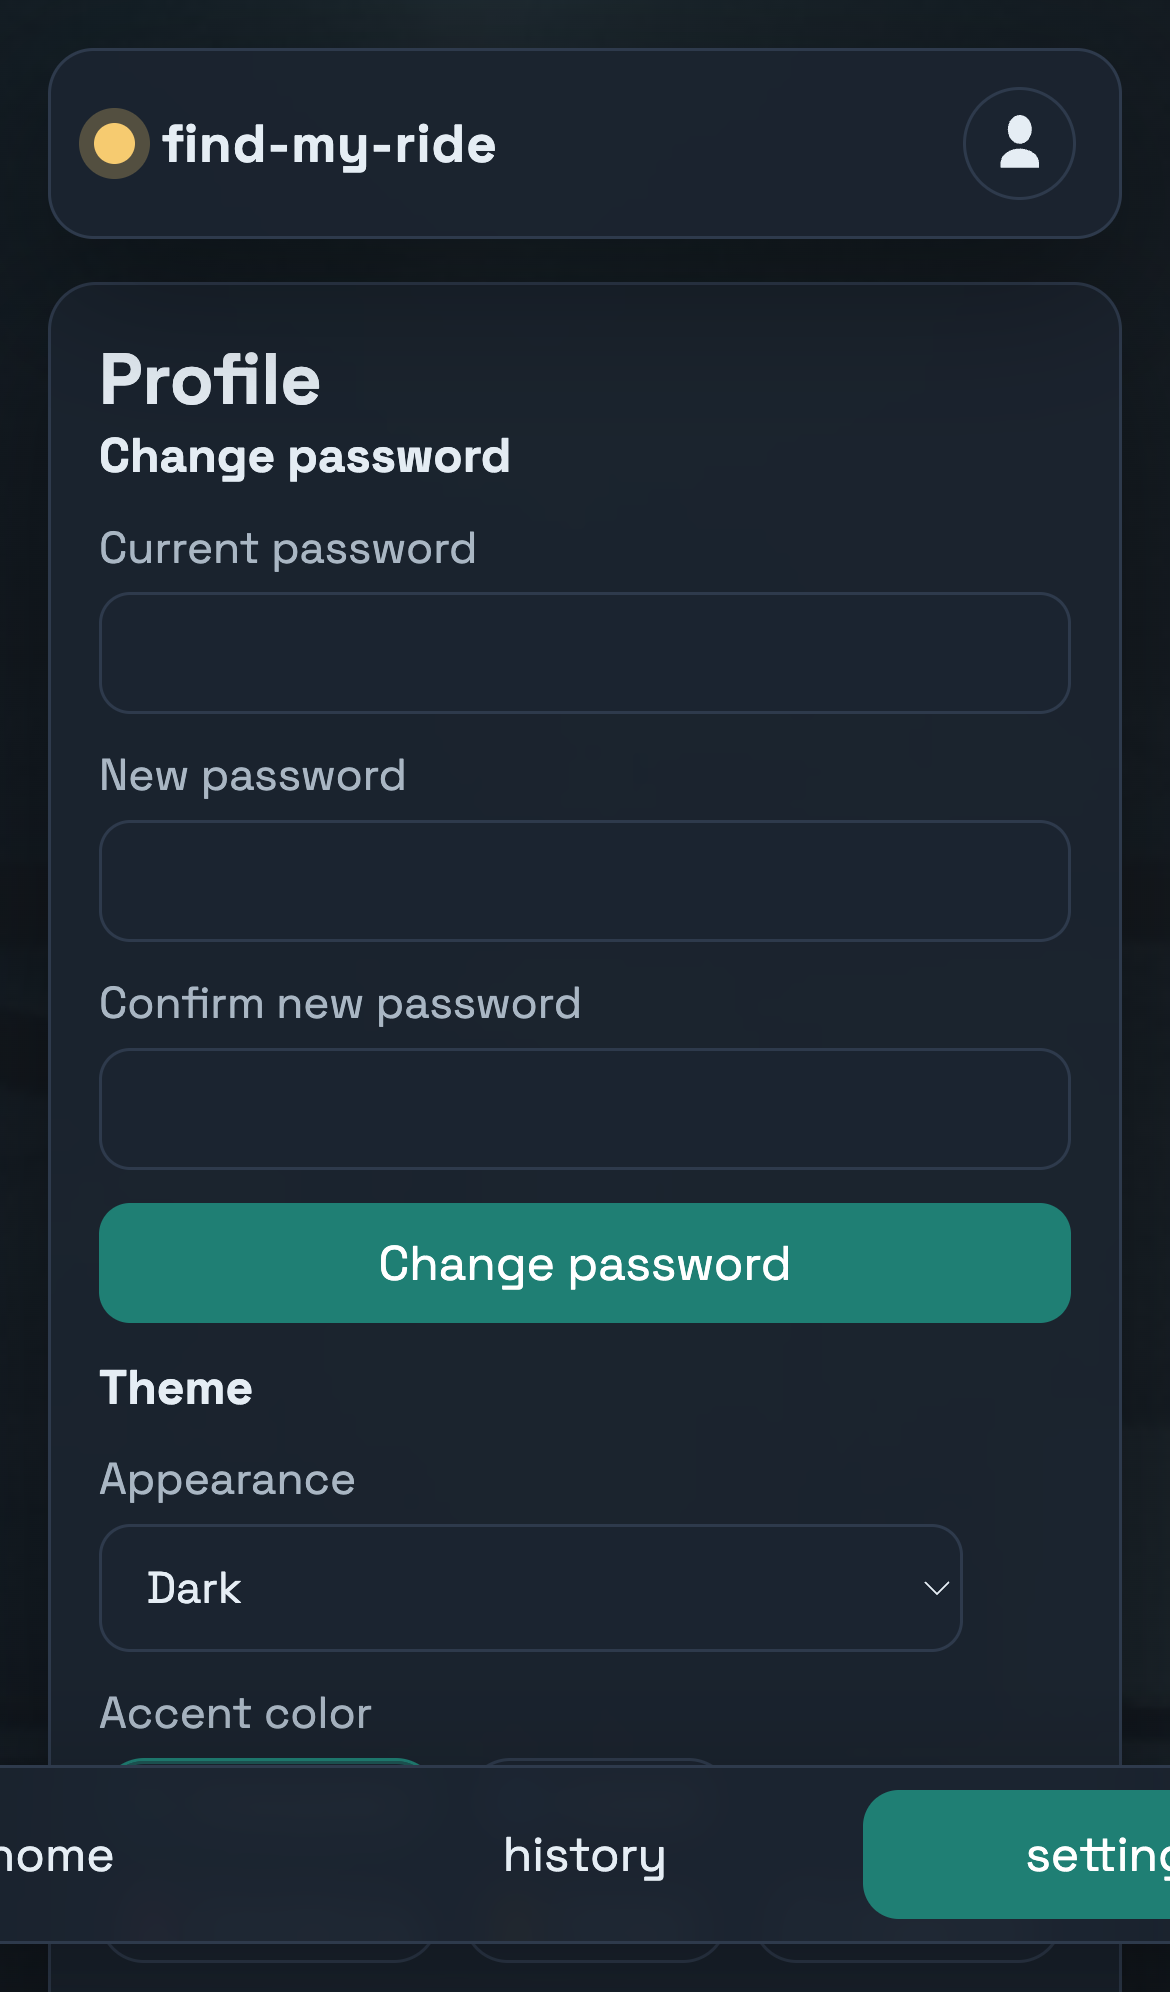
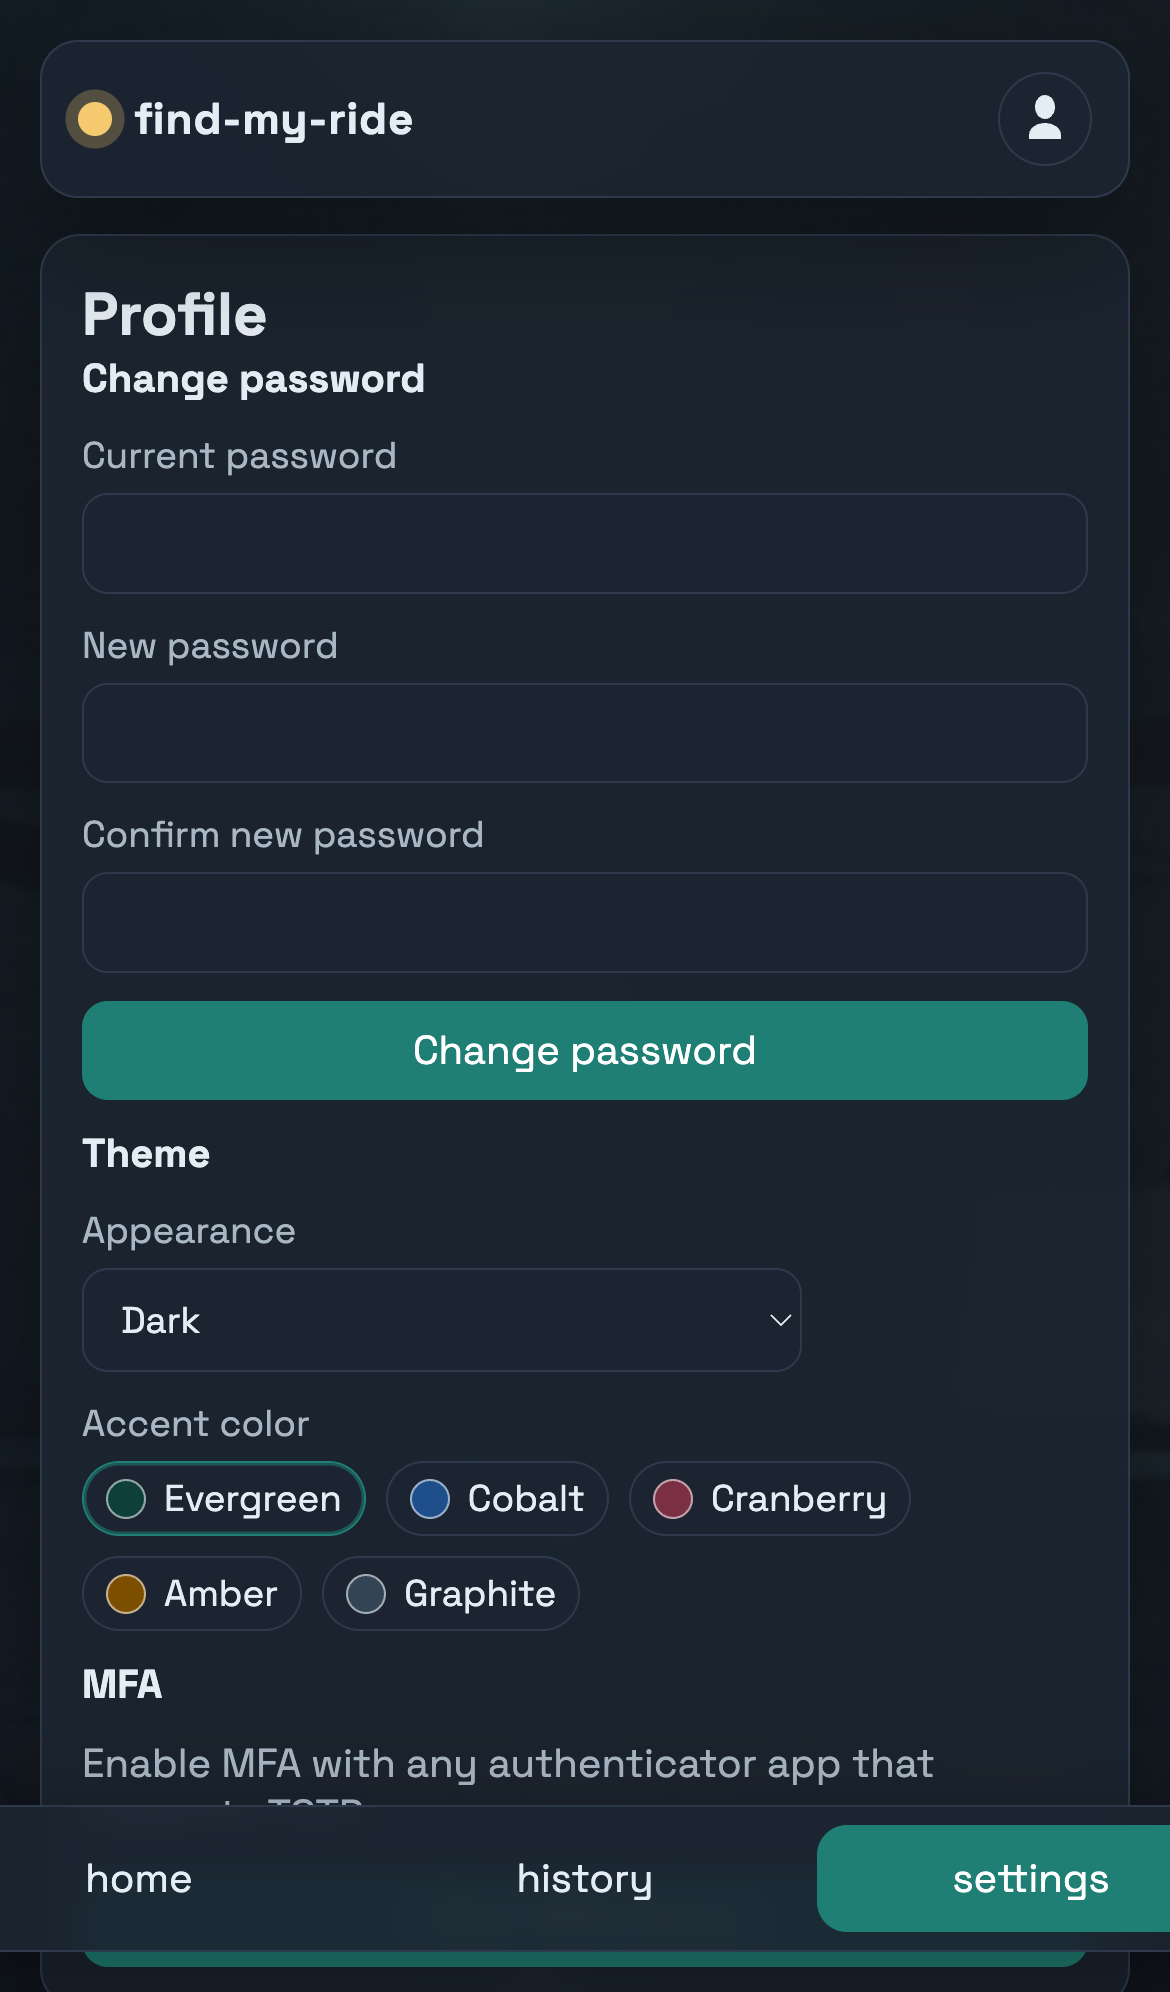
Switch README screenshot workflow to 2.5x zoom and refresh assets

diff --git a/docs/dev-guide.md b/docs/dev-guide.md
@@ -158,7 +158,7 @@ When refreshing README screenshots (`docs/assets/screenshots/home.png`, `history
 
 - Canonical automation: `./scripts/readme-screenshots/refresh.sh`
 - Output format/size: PNG at `1170x1992` for each image.
-- Visual scale: apply `3.0x` page zoom during capture so card text and controls remain readable in the 3-up README gallery.
+- Visual scale: apply `2.5x` page zoom during capture so card text and controls remain readable in the 3-up README gallery.
 - Theme: dark mode (`fmr_theme_mode=dark`) with the default `evergreen` accent.
 - Environment: run against the local Docker stack (`docker compose up -d --build`) on the frontend URL (`http://127.0.0.1:${FRONTEND_PORT}`; current default in this repo is `15173`).
 - Data setup: use the dedicated demo account (`readme_demo` by default, configurable via `README_DEMO_USERNAME`) with at least 3 history rows:

diff --git a/docs/decisions.md b/docs/decisions.md
@@ -236,7 +236,7 @@
 - Details:
   - `refresh.sh` authenticates a demo user, applies deterministic history seed data, and runs the capture script.
   - `seed_history.sql` sets fixed sample rows so `history` capture state remains stable (second row expanded with map and no note/photos).
-  - `capture.mjs` enforces required dimensions (`1170x1992`), theme (`dark` + `evergreen`), and `3.0x` visual zoom.
+  - `capture.mjs` enforces required dimensions (`1170x1992`), theme (`dark` + `evergreen`), and `2.5x` visual zoom.
 
 ## Related docs
 

diff --git a/scripts/readme-screenshots/README.md b/scripts/readme-screenshots/README.md
@@ -6,7 +6,7 @@ This folder keeps the canonical automation for regenerating README screenshot as
 
 - `refresh.sh`: end-to-end workflow (authenticate demo user, seed DB rows, capture screenshots)
 - `seed_history.sql`: deterministic fake history rows used for README captures
-- `capture.mjs`: Playwright capture flow for `home`, `history`, `settings` at `1170x1992` and `3.0x` UI zoom
+- `capture.mjs`: Playwright capture flow for `home`, `history`, `settings` at `1170x1992` and `2.5x` UI zoom
 
 ## Usage
 
